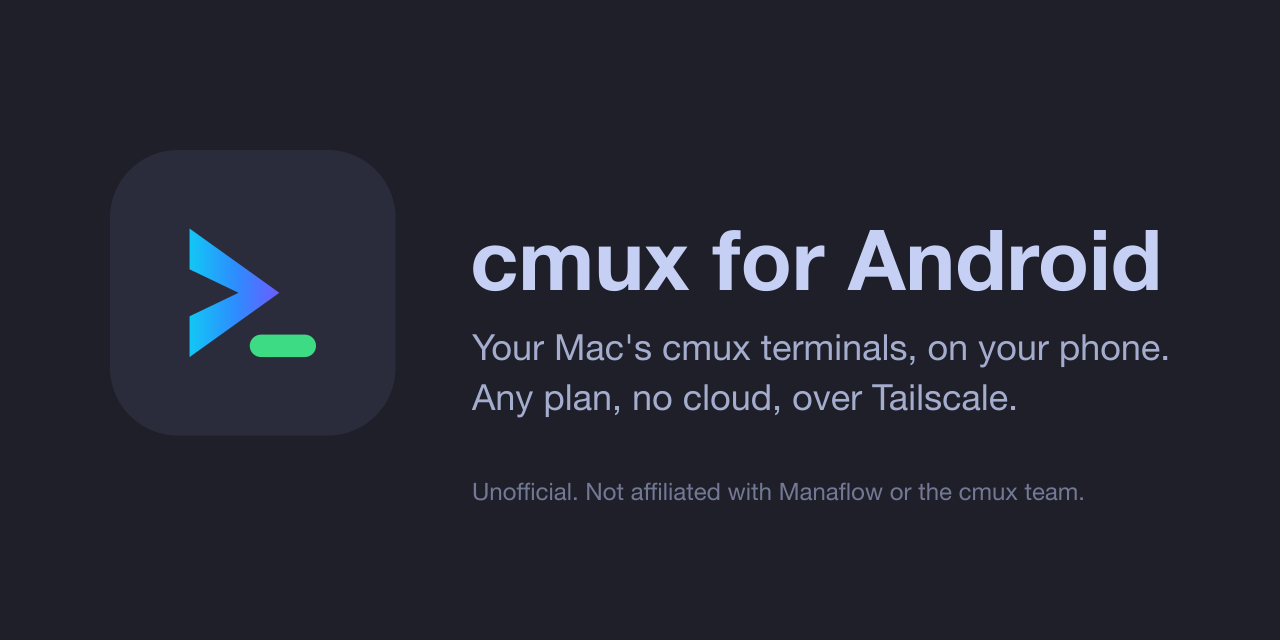
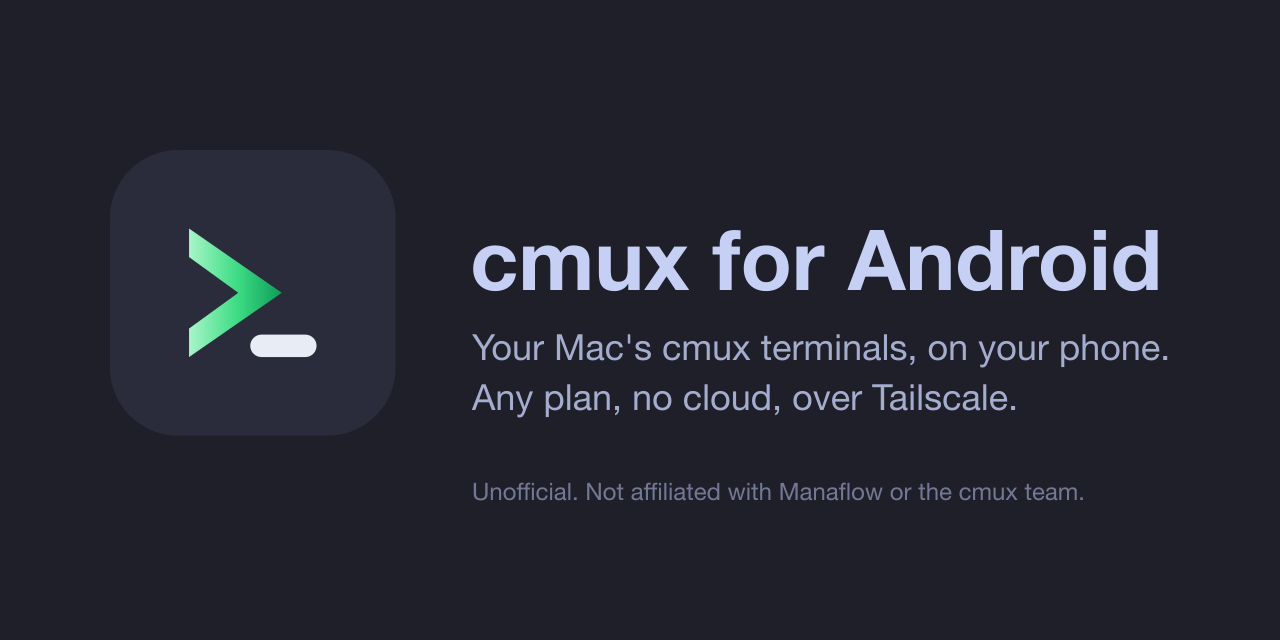
feat: use the exact cmux chevron with an android green gradient
Traces the chevron from the official cmux app icon instead of the
website SVG, whose arms are thicker, and recolors its gradient from
cyan-violet to Android greens. The cursor is now near-white so it does
not compete with the chevron.

Changed region(s): [[0.125, 0.3438, 0.25, 0.5625]]

diff --git a/README.md b/README.md
@@ -1,5 +1,5 @@
 <p align="center">
-  <img src="assets/logo.svg" width="128" height="128" alt="cmux for Android logo: a blue gradient chevron and a green cursor">
+  <img src="assets/logo.svg" width="128" height="128" alt="cmux for Android logo: a green gradient chevron and a light cursor">
 </p>
 
 # cmux for Android
